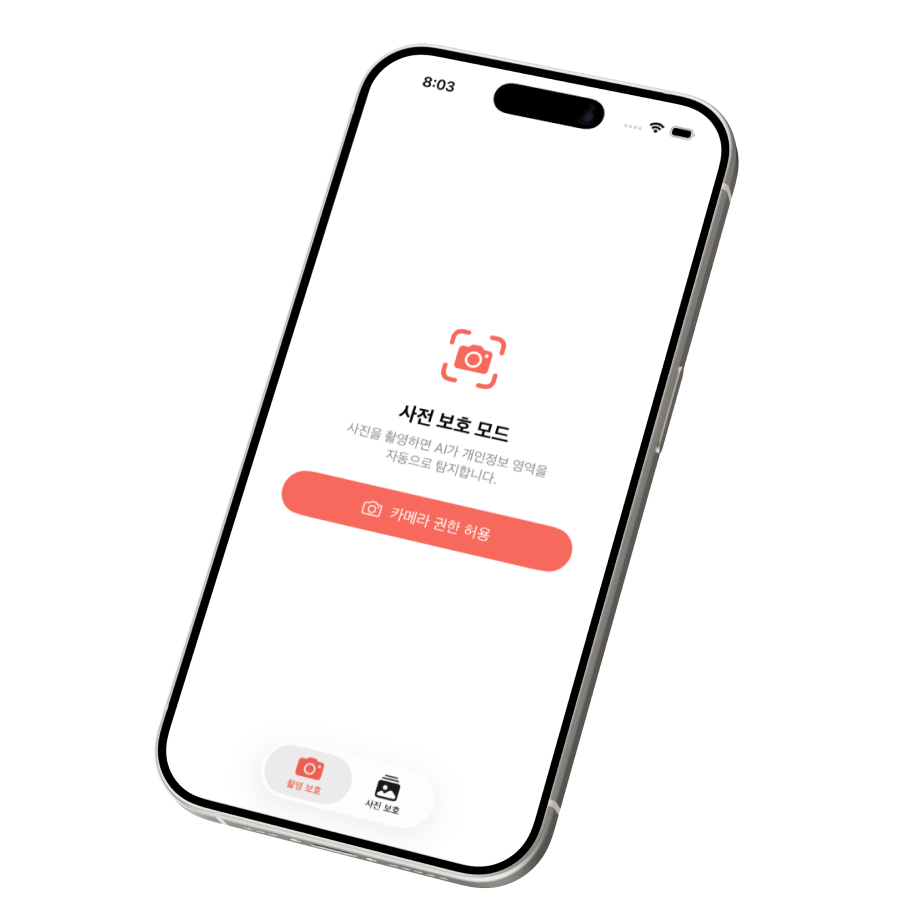
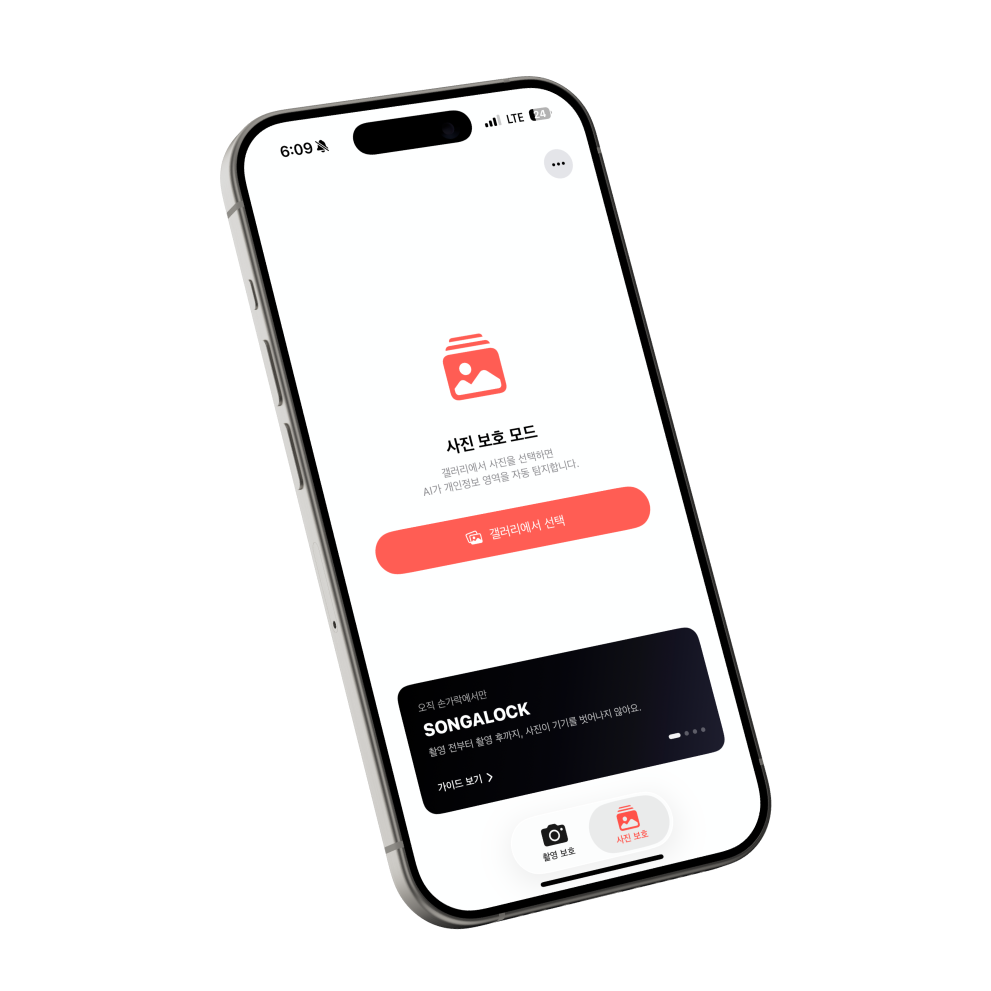
팀 카드 개편, 새 목업, 팀 GitHub, 이스터에그, 커서 버그
- 커서 버그: .btn-red-ghost 의 cursor:default 가 커스텀 커서의 cursor:none 과
  특이도가 같은데 뒤에 있어 이겨서, "Google Play 출시 예정" 위에 OS 커서가
  겹쳐 보였습니다. span 은 기본이 화살표라 그 선언을 지웠습니다.
- 팀 카드: 사진을 이름 옆으로 옮기고 78~96px 로 키웠습니다. 넷 중 둘만 사진이
  있어서 위에 쌓으면 나머지 두 장에 빈 구멍이 생깁니다. 옆에 두면 카드 높이를
  늘리지 않고 사진만 커집니다. 그리드는 4열 → 2열(넓은 카드).
- 이윤호·이동건 프로필 사진 추가. 원본이 3.9MB/374KB 라 480px 로 줄였습니다
  (321KB/38KB). README 의 파일명 표도 실제 파일명으로 정정.
- 손가Lock 목업 교체. 폰이 캔버스에서 차지하는 비율이 서로 뒤바뀌어서
  (before 92%→86.3%, after 86%→92.1%) 높이를 78%/86% 로 다시 계산했습니다.
- 팀 GitHub 를 네비에도 추가. 푸터에만 있으면 잘 안 보입니다. 아이콘 두 개를
  .nav-social 로 묶어 좁은 화면에서도 폭이 넘치지 않습니다.
- 이스터에그: 이동건 프로필을 600ms 안에 7번 연타하면 doumi 이스터에그
  페이지가 열립니다. 외부 링크와 같은 브라우저 창 연출을 쓰도록 sendOff()
  를 분리했습니다. 느린 클릭으로는 발동하지 않습니다.

Changed region(s): [[0.1523, 0.0305, 0.8226, 0.975]]

diff --git a/index.html b/index.html
@@ -21,7 +21,7 @@
   <!-- ?v= 는 캐시 무효화용입니다. 배포는 파일을 덮어쓰기만 하므로(scripts/deploy.sh),
        이 숫자를 올리지 않으면 재방문자는 예전 CSS/JS를 계속 씁니다. css/js 를
        고쳤으면 아래 두 곳의 숫자를 같이 올려주세요. -->
-  <link rel="stylesheet" href="css/style.css?v=6" />
+  <link rel="stylesheet" href="css/style.css?v=7" />
   <noscript>
     <style>
       .loader, .cursor { display: none; }
@@ -80,12 +80,20 @@
       <a href="#projects">프로젝트</a>
       <a href="#team">팀</a>
     </nav>
-    <a class="nav-insta" href="https://www.instagram.com/namyeong.dev/" target="_blank" rel="noopener" aria-label="인스타그램 @namyeong.dev">
-      <svg viewBox="0 0 24 24" width="18" height="18" fill="none" stroke="currentColor" stroke-width="1.8" aria-hidden="true">
-        <rect x="3" y="3" width="18" height="18" rx="5"/><circle cx="12" cy="12" r="4"/><circle cx="17.2" cy="6.8" r="1" fill="currentColor" stroke="none"/>
-      </svg>
-      <span>@namyeong.dev</span>
-    </a>
+    <div class="nav-social">
+      <a class="nav-insta" href="https://www.instagram.com/namyeong.dev/" target="_blank" rel="noopener" aria-label="인스타그램 @namyeong.dev">
+        <svg viewBox="0 0 24 24" width="18" height="18" fill="none" stroke="currentColor" stroke-width="1.8" aria-hidden="true">
+          <rect x="3" y="3" width="18" height="18" rx="5"/><circle cx="12" cy="12" r="4"/><circle cx="17.2" cy="6.8" r="1" fill="currentColor" stroke="none"/>
+        </svg>
+        <span>@namyeong.dev</span>
+      </a>
+      <a class="nav-insta" href="https://github.com/namyeong-dev" target="_blank" rel="noopener" aria-label="팀 GitHub">
+        <svg viewBox="0 0 24 24" width="18" height="18" fill="currentColor" stroke="none" aria-hidden="true">
+          <path d="M12 .5C5.37.5 0 5.87 0 12.5c0 5.3 3.44 9.8 8.2 11.39.6.11.82-.26.82-.58 0-.29-.01-1.05-.02-2.06-3.34.73-4.04-1.61-4.04-1.61-.55-1.39-1.34-1.76-1.34-1.76-1.09-.75.08-.73.08-.73 1.21.09 1.84 1.24 1.84 1.24 1.07 1.84 2.81 1.31 3.5 1 .11-.78.42-1.31.76-1.61-2.67-.3-5.47-1.33-5.47-5.93 0-1.31.47-2.38 1.24-3.22-.12-.3-.54-1.52.12-3.18 0 0 1.01-.32 3.3 1.23a11.5 11.5 0 0 1 6 0c2.29-1.55 3.3-1.23 3.3-1.23.66 1.66.24 2.88.12 3.18.77.84 1.24 1.91 1.24 3.22 0 4.61-2.8 5.63-5.48 5.92.43.37.81 1.1.81 2.22 0 1.6-.01 2.89-.01 3.28 0 .32.22.7.83.58C20.56 22.29 24 17.8 24 12.5 24 5.87 18.63.5 12 .5z"/>
+        </svg>
+        <span>GitHub</span>
+      </a>
+    </div>
     <span class="nav-progress" id="navProgress" aria-hidden="true"></span>
   </header>
 
@@ -359,14 +367,17 @@
            숨어 있는 동안에는 lazy 이미지가 아예 요청되지 않습니다. -->
       <ul class="team-grid">
         <li class="member tilt" data-reveal>
+          <div class="member-photo">
+            <img src="assets/team/lee-yoonho.jpg" alt="이윤호 프로필 사진" />
+          </div>
           <div class="member-meta">
             <span class="member-role member-role-lead">팀장</span>
             <h3 class="member-name">이윤호</h3>
             <p class="member-en">Lee Yoonho</p>
-            <ul class="member-work">
-              <li>개발 · 운영 · 인프라 전반</li>
-            </ul>
           </div>
+          <ul class="member-work">
+            <li>개발 · 운영 · 인프라 전반</li>
+          </ul>
           <div class="member-links">
             <a class="member-link" href="https://www.instagram.com/yoonho_0501" target="_blank" rel="noopener" aria-label="이윤호 인스타그램">
               <svg viewBox="0 0 24 24" fill="none" stroke="currentColor" stroke-width="1.8" aria-hidden="true"><rect x="3" y="3" width="18" height="18" rx="5"/><circle cx="12" cy="12" r="4"/><circle cx="17.2" cy="6.8" r="1" fill="currentColor" stroke="none"/></svg>
@@ -380,14 +391,17 @@
           </div>
         </li>
         <li class="member tilt" data-reveal>
+          <div class="member-photo" data-egg="https://doumi.beetree.cc/easter/dg">
+            <img src="assets/team/lee-donggeon.png" alt="이동건 프로필 사진" />
+          </div>
           <div class="member-meta">
             <span class="member-role">팀원</span>
             <h3 class="member-name">이동건</h3>
             <p class="member-en">Lee Donggeon</p>
-            <ul class="member-work">
-              <li>기획 · 디자인 · 개발 전반</li>
-            </ul>
           </div>
+          <ul class="member-work">
+            <li>기획 · 디자인 · 개발 전반</li>
+          </ul>
           <div class="member-links">
             <a class="member-link" href="https://www.instagram.com/0x.3130/" target="_blank" rel="noopener" aria-label="이동건 인스타그램">
               <svg viewBox="0 0 24 24" fill="none" stroke="currentColor" stroke-width="1.8" aria-hidden="true"><rect x="3" y="3" width="18" height="18" rx="5"/><circle cx="12" cy="12" r="4"/><circle cx="17.2" cy="6.8" r="1" fill="currentColor" stroke="none"/></svg>
@@ -402,21 +416,21 @@
             <span class="member-role">팀원</span>
             <h3 class="member-name">정수아</h3>
             <p class="member-en">Jeong Sua</p>
-            <ul class="member-work">
-              <li>Doumi 기획 · 로고 디자인</li>
-              <li>BeeTREE 로고 디자인</li>
-            </ul>
           </div>
+          <ul class="member-work">
+            <li>Doumi 기획 · 로고 디자인</li>
+            <li>BeeTREE 로고 디자인</li>
+          </ul>
         </li>
         <li class="member tilt" data-reveal>
           <div class="member-meta">
             <span class="member-role">팀원</span>
             <h3 class="member-name">서재연</h3>
             <p class="member-en">Seo Jaeyeon</p>
-            <ul class="member-work">
-              <li>BeeTREE 알고리즘 자문</li>
-            </ul>
           </div>
+          <ul class="member-work">
+            <li>BeeTREE 알고리즘 자문</li>
+          </ul>
           <div class="member-links">
             <a class="member-link" href="https://www.instagram.com/jaeyeon922/" target="_blank" rel="noopener" aria-label="서재연 인스타그램">
               <svg viewBox="0 0 24 24" fill="none" stroke="currentColor" stroke-width="1.8" aria-hidden="true"><rect x="3" y="3" width="18" height="18" rx="5"/><circle cx="12" cy="12" r="4"/><circle cx="17.2" cy="6.8" r="1" fill="currentColor" stroke="none"/></svg>
@@ -460,6 +474,6 @@
     </div>
   </footer>
 
-  <script src="js/main.js?v=6" defer></script>
+  <script src="js/main.js?v=7" defer></script>
 </body>
 </html>

diff --git a/css/style.css b/css/style.css
@@ -435,6 +435,12 @@ body.loaded .loader { opacity: 0; visibility: hidden; }
   white-space: nowrap;
 }
 
+.nav-social {
+  display: inline-flex;
+  align-items: center;
+  gap: 6px;
+}
+
 .nav-insta:hover { opacity: 1; }
 .nav[data-theme-now='dark'] .nav-insta:hover { background: rgba(255, 255, 255, 0.12); }
 .nav[data-theme-now='light'] .nav-insta:hover { background: rgba(0, 0, 0, 0.05); }
@@ -476,7 +482,8 @@ body.loaded .loader { opacity: 0; visibility: hidden; }
 .btn-red-ghost {
   border: 1px dashed rgba(223, 49, 52, 0.55);
   color: var(--red-soft);
-  cursor: default;
+  /* cursor 를 여기서 지정하면 .has-cursor * 의 cursor:none 을 덮어써서
+     커스텀 커서 위에 OS 커서가 겹쳐 보입니다. span 은 기본이 화살표라 불필요. */
   font-size: 14px;
   padding: 12px 20px;
 }
@@ -1360,12 +1367,14 @@ body.loaded .ht-word { opacity: 1; transform: none; filter: blur(0); }
     rotate 0.55s var(--ease);
 }
 
-/* heights are tuned against each file's own padding (the phone fills 92% of
-   iPhone02.png but only 86% of iPhone01.png) so the two read as one scene */
+/* Heights are tuned against each file's own padding so the two phones read as
+   one scene. Measured fill: before 86.3%, after 92.1% of its own canvas — the
+   values below cancel that difference out. Re-measure when a mockup changes
+   (the alpha bounding box is what matters, not the canvas size). */
 .phone-before {
   left: -6%;
   top: 0;
-  height: 73%;
+  height: 78%;
   z-index: 1;
   translate: 46px 34px;
   rotate: 5deg;
@@ -1374,7 +1383,7 @@ body.loaded .ht-word { opacity: 1; transform: none; filter: blur(0); }
 .phone-after {
   right: 0;
   bottom: 0;
-  height: 92%;
+  height: 86%;
   z-index: 2;
   translate: -46px -30px;
   rotate: -5deg;
@@ -1490,19 +1499,25 @@ body.loaded .ht-word { opacity: 1; transform: none; filter: blur(0); }
 }
 
 .team-grid {
-  max-width: 880px;
+  max-width: 860px;
   margin: 0 auto;
   display: grid;
-  grid-template-columns: repeat(4, 1fr);
-  gap: clamp(14px, 2vw, 26px);
+  grid-template-columns: repeat(2, 1fr);
+  gap: clamp(14px, 1.8vw, 20px);
 }
 
-/* a nameplate, not a photo card — the roster reads on its own */
+/* a nameplate, not a photo card — the roster reads on its own.
+   Photo sits beside the name rather than above it: two of the four have no
+   photo, and stacking would leave their cards with a hole where it would be.
+   Side by side the picture can be big without making any card taller. */
 .member {
   position: relative;
   display: grid;
+  grid-template-columns: 1fr;
+  grid-template-areas: 'meta' 'work' 'links';
   align-content: start;
-  gap: 14px;
+  column-gap: 16px;
+  row-gap: 13px;
   padding: 20px 18px 22px;
   border: 1px solid var(--hairline-light);
   border-radius: 18px;
@@ -1520,19 +1535,30 @@ body.loaded .ht-word { opacity: 1; transform: none; filter: blur(0); }
   box-shadow: 0 18px 40px rgba(11, 12, 112, 0.11);
 }
 
+.member-meta { grid-area: meta; }
+.member-work { grid-area: work; }
+.member-links { grid-area: links; }
+
 /* the frame only exists once a real photo loads (JS adds .has-photo) —
    see README for the file names */
 .member-photo { display: none; }
 
+.member.has-photo {
+  grid-template-columns: auto 1fr;
+  grid-template-areas: 'photo meta' 'work work' 'links links';
+}
+
+.member.has-photo .member-meta { align-self: center; }
+
 /* 카드 폭을 꽉 채우는 세로 사진이 아니라 아바타 크기입니다. 네 명 중 두
    명만 사진이 있어서, 큰 사진이면 카드끼리 높이가 크게 어긋납니다. */
 .member.has-photo .member-photo {
+  grid-area: photo;
   display: block;
   position: relative;
-  width: 64px;
-  /* README 가 권장하는 세로형 비율 그대로, 크기만 작게 */
+  width: clamp(78px, 8vw, 96px);
   aspect-ratio: 1 / 1.16;
-  border-radius: 14px;
+  border-radius: 15px;
   overflow: hidden;
   background: linear-gradient(150deg, var(--blue), var(--doumi));
 }
@@ -1560,6 +1586,8 @@ body.loaded .ht-word { opacity: 1; transform: none; filter: blur(0); }
 }
 
 .member:hover .member-photo img { transform: scale(1.055); }
+
+.member-photo:active { scale: 0.95; }
 
 .member-meta {
   display: grid;
@@ -1599,7 +1627,6 @@ body.loaded .ht-word { opacity: 1; transform: none; filter: blur(0); }
 /* what each person actually worked on. Everyone gets a line, so the roster
    reads as credits rather than a ranking — the scope itself is the difference. */
 .member-work {
-  margin-top: 9px;
   display: grid;
   gap: 3px;
   font-size: 11.5px;
@@ -1839,7 +1866,7 @@ body.loaded .ht-word { opacity: 1; transform: none; filter: blur(0); }
 
   .panel-index { font-size: 4.6rem; bottom: 12px; }
 
-  .team-grid { grid-template-columns: repeat(2, 1fr); max-width: 520px; }
+  .team-grid { max-width: 560px; }
 }
 
 @media (max-width: 760px) {
@@ -1907,9 +1934,8 @@ body.loaded .ht-word { opacity: 1; transform: none; filter: blur(0); }
 }
 
 @media (max-width: 470px) {
-  .team-grid { grid-template-columns: repeat(2, 1fr); max-width: 400px; gap: 12px; }
+  .team-grid { grid-template-columns: 1fr; max-width: 420px; gap: 12px; }
   .member { padding: 16px 14px 18px; border-radius: 15px; }
-  .member-name { font-size: 16px; }
   .marquee { margin-top: clamp(64px, 10vh, 110px); }
   .logo { --h: 74px; }
   .marquee-set { gap: 34px; padding-right: 34px; }
@@ -1921,7 +1947,7 @@ body.loaded .ht-word { opacity: 1; transform: none; filter: blur(0); }
   /* the wordmark no longer fits beside the links */
   .nav-logo-text { display: none; }
   .hero-cta { flex-direction: column; align-items: stretch; }
-  .team-grid { grid-template-columns: 1fr; max-width: 260px; }
+  .team-grid { max-width: 300px; }
 }
 
 /* ═══════════ Touch devices ═══════════ */

diff --git a/js/main.js b/js/main.js
@@ -464,11 +464,12 @@
 
     ev.preventDefault();
     leaving = true;
+    sendOff(a.href, a.getBoundingClientRect(), getComputedStyle(a).backgroundColor);
+  });
 
-    const r = a.getBoundingClientRect();
-    const bg = getComputedStyle(a).backgroundColor;
-    const href = a.href;
-
+  /* The send-off itself, so anything can trigger it — a link click, or the
+     easter egg below. `from` is the box it grows out of. */
+  function sendOff(href, r, bg) {
     portalUrl.textContent = new URL(href).hostname.replace(/^www\./, '');
 
     // starts life as the thing that was clicked — same box, same pill radius,
@@ -519,7 +520,28 @@
         location.href = href;
       }
     }, OPEN_AT);
-  });
+  }
+
+  /* ── Easter egg ── */
+  /* 이동건's photo, clicked in a hurry. Deliberately undiscoverable by
+     accident: seven clicks with no more than 600ms between them. */
+  const egg = document.querySelector('[data-egg]');
+
+  if (egg && !reduced) {
+    let hits = 0;
+    let last = 0;
+
+    egg.addEventListener('click', () => {
+      if (leaving) return;
+      const now = performance.now();
+      hits = now - last < 600 ? hits + 1 : 1;
+      last = now;
+      if (hits < 7) return;
+      hits = 0;
+      leaving = true;
+      sendOff(egg.dataset.egg, egg.getBoundingClientRect(), '#fff');
+    });
+  }
 
   // the back button restores this page exactly as it was left — with the
   // window still up — so it has to be cleared on the way back in

diff --git a/README.md b/README.md
@@ -66,10 +66,13 @@ python3 -m http.server 4173
 
 | 파일명 | 팀원 |
 |---|---|
-| `lee-yunho.jpg` | 이윤호 (팀장) |
-| `lee-donggeon.jpg` | 이동건 |
+| `lee-yoonho.jpg` | 이윤호 (팀장) |
+| `lee-donggeon.png` | 이동건 |
 | `jeong-sua.jpg` | 정수아 |
 | `seo-jaeyeon.jpg` | 서재연 |
+
+사진은 이름 옆에 들어가고 표시 크기가 96px 정도라, 원본이 크면 480px 정도로 줄여서
+넣으세요. 4MB 짜리를 그대로 두면 그 한 장이 페이지 전체보다 무겁습니다.
 
 사진이 없는 사람은 `<img>` 자체를 두지 않습니다. `loading="lazy"` 도 붙이지 않습니다.
 두 규칙 다 이유가 있어서, 자세한 건 [CLAUDE.md](CLAUDE.md#팀-사진) 에 적어 뒀습니다.
